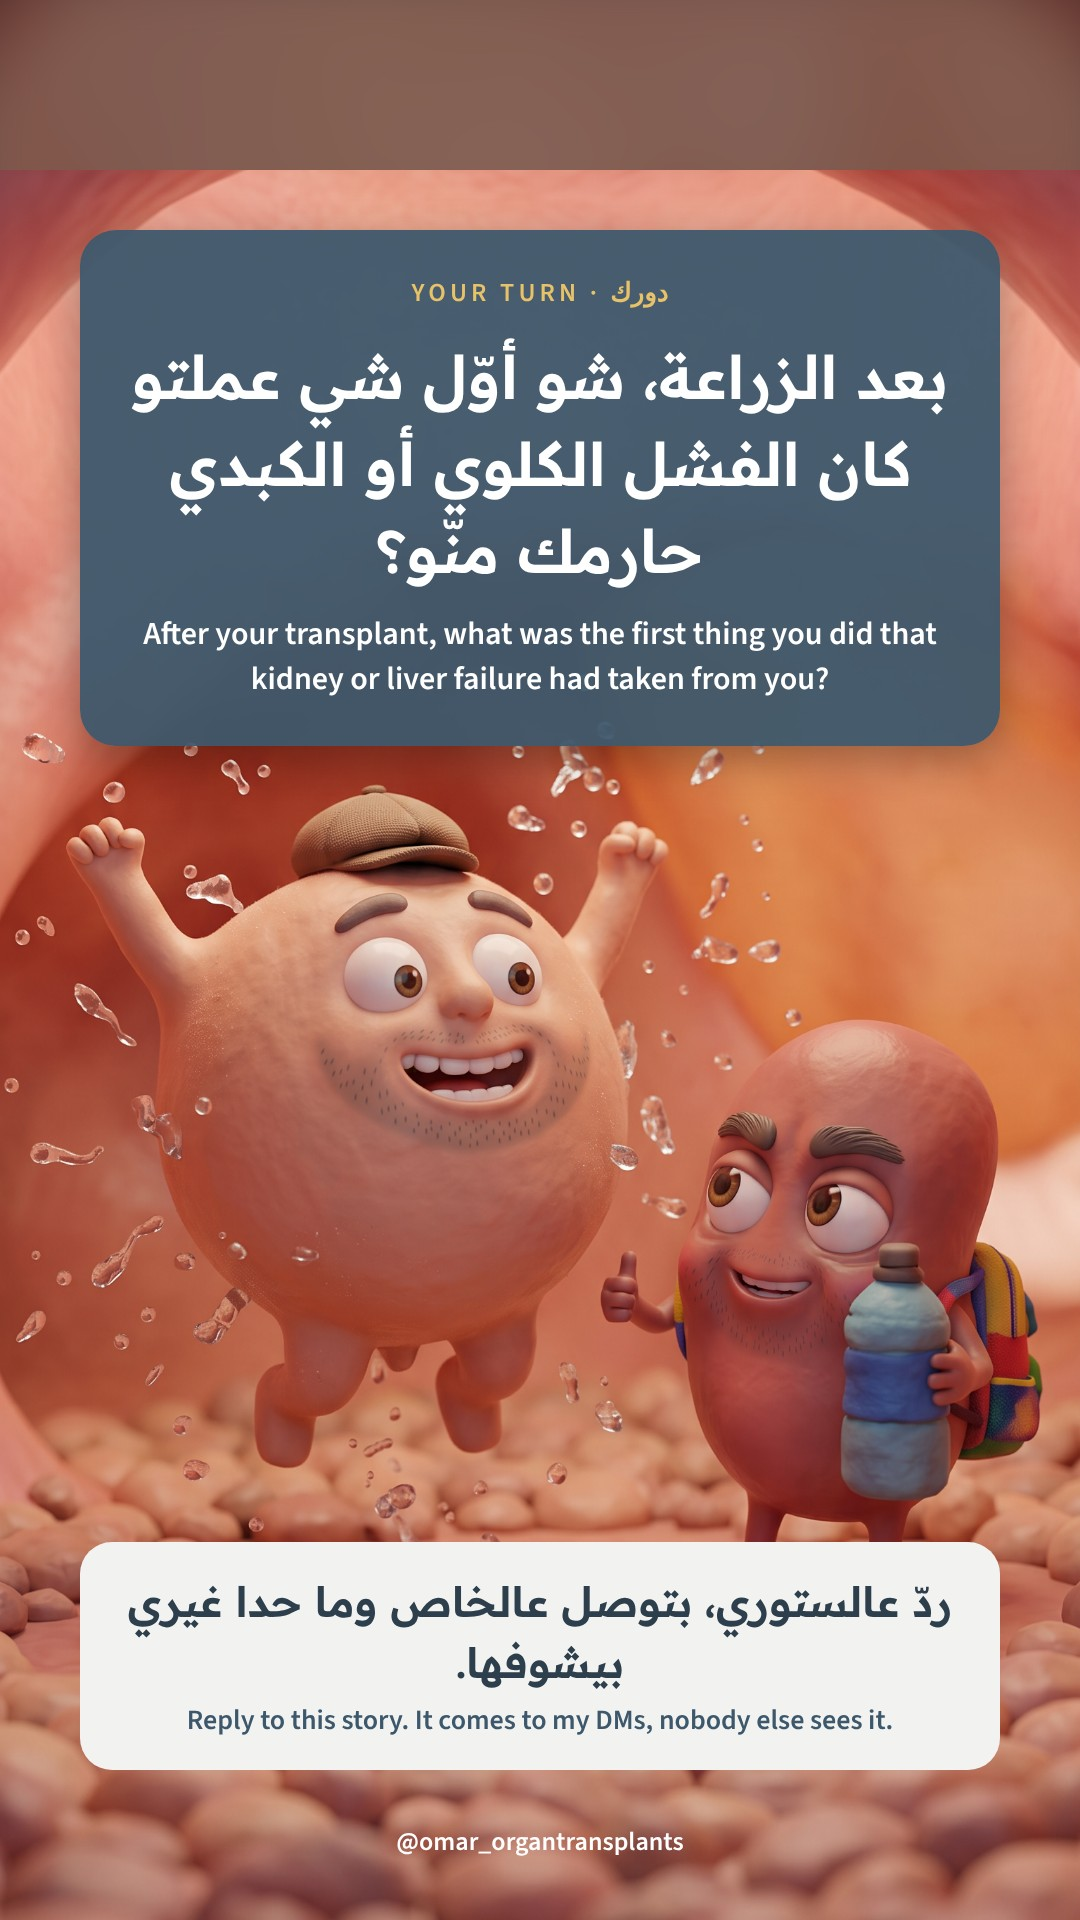
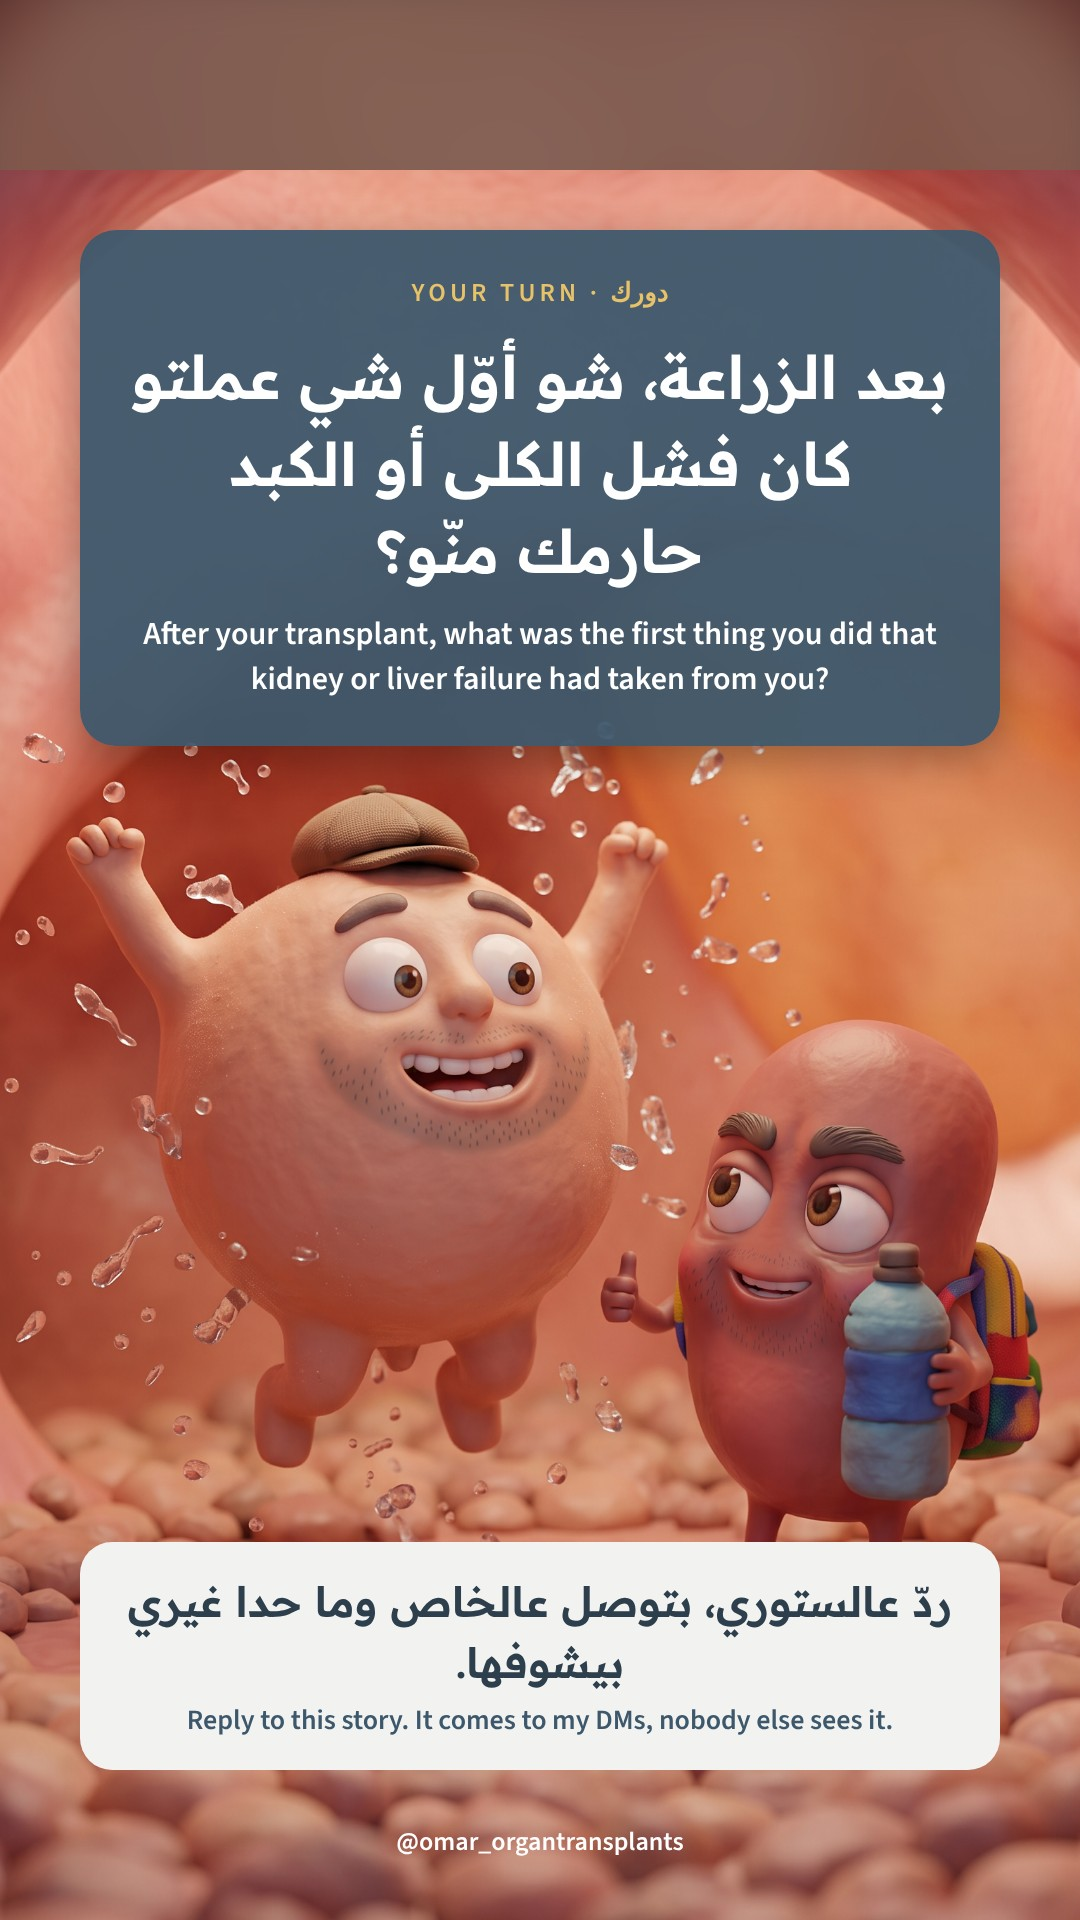
D1125a TikTok: 'فشل الكلى أو الكبد' instead of 'الفشل الكلوي أو الكبدي' (Omar, 19 Nov); wording rule added to tools/README
Claude-Session: https://claude.ai/code/session_015KYtjEctsYGHt1TpLgso7h

Changed region(s): [[0.1528, 0.2188, 0.8556, 0.2812]]

diff --git a/tools/README.md b/tools/README.md
@@ -29,4 +29,4 @@
 - ONE THING PER STORY, ALWAYS (Omar, 13 Nov, rule of thumb, stricter than the 11 Nov rule): every story says exactly one thing, in one line, in BOTH the English (IG) and the Arabic (TikTok) version. A "new" story is eyebrow + one headline, no second line (no en_sub / ar2). Never point to two posts in one story: if a day has a post AND a reel, make two stories (e.g. 19:05 "The post is up: ..." right after the post, 20:35 "The reel is up: ..." after the reel). Question stories: the question as the headline + the short "reply to this story" line only. Example: D1120b_mypost / D1120c_reel.
 - SOURCES OFF THE SLIDES (Omar, 13 Nov): no "Sources:" / "المصادر" line on any carousel slide any more. Sources go in the post caption or as the first comment (Buffer metadata.instagram.firstComment). Removed 13 Nov from A09, MED1, FAQ1-FAQ8 (sources kept in the Calendar column R as "Sources (first comment)"). Replaces the older "Field Notes cite sources on the last slide" rule.
 - Never let a panel cover the character: if the subject sits high in the image, use a "_low" version with headroom (e.g. scenes/bladder_low.jpg for FAQ2 slide 2, 13 Nov).
-- TIKTOK STORIES BY HAND (Omar, 13 Nov): TikTok can't schedule stories (no API; Omar checked TikTok Studio), so Omar posts EVERY TikTok story himself. For each approved story, create a Google Calendar event on Omar's primary calendar: title "TikTok story · <ID>", start = the story time (Asia/Beirut), 5 minutes long, availability free, overrideReminders popup 0 min, description = "Post this as a TikTok story now (Arabic image):" + the raw GitHub URL of the _tt file pinned to the commit SHA + "Open the link, long-press the image, save it, post it as a story." No "[BTBTP]" prefix and no "btbtp-sync" marker, so the Monday calendar sync never deletes them. Also add the story to stories/tiktok_schedule.json. Do this in the same step as scheduling the Instagram story in Buffer. (13-20 Nov created 13 Nov.)
+- TIKTOK STORIES BY HAND (Omar, 13 Nov): TikTok can't schedule stories (no API; Omar checked TikTok Studio), so Omar posts EVERY TikTok story himself. For each approved story, create a Google Calendar event on Omar's primary calendar: title "TikTok story · <ID>", start = the story time (Asia/Beirut), 5 minutes long, availability free, overrideReminders popup 0 min, description = "Post this as a TikTok story now (Arabic image):" + the raw GitHub URL of the _tt file pinned to the commit SHA + "Open the link, long-press the image, save it, post it as a story." No "[BTBTP]" prefix and no "btbtp-sync" marker, so the Monday calendar sync never deletes them. Also add the story to stories/tiktok_schedule.json. Do this in the same step as scheduling the Instagram story in Buffer. (13-20 Nov created 13 Nov.)- Wording (Omar, 19 Nov): in Arabic write "فشل الكلى أو الكبد" (not "الفشل الكلوي أو الكبدي") when both organs are named. Applies to stories, carousels, captions and scripts from now on. D1125a re-rendered 19 Nov.
